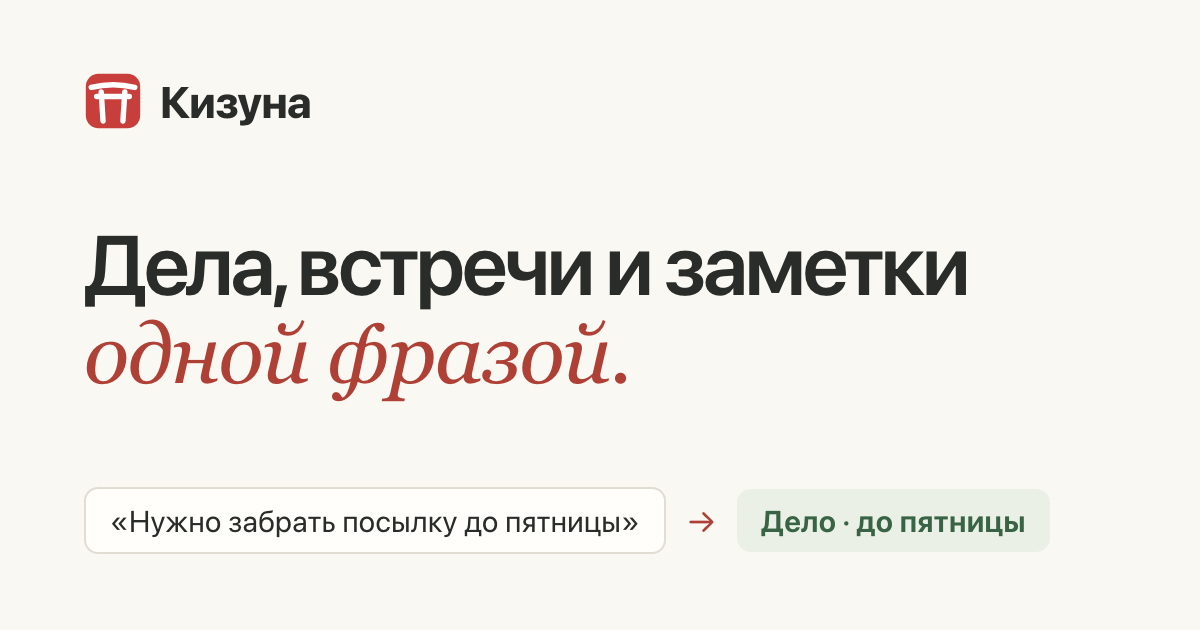
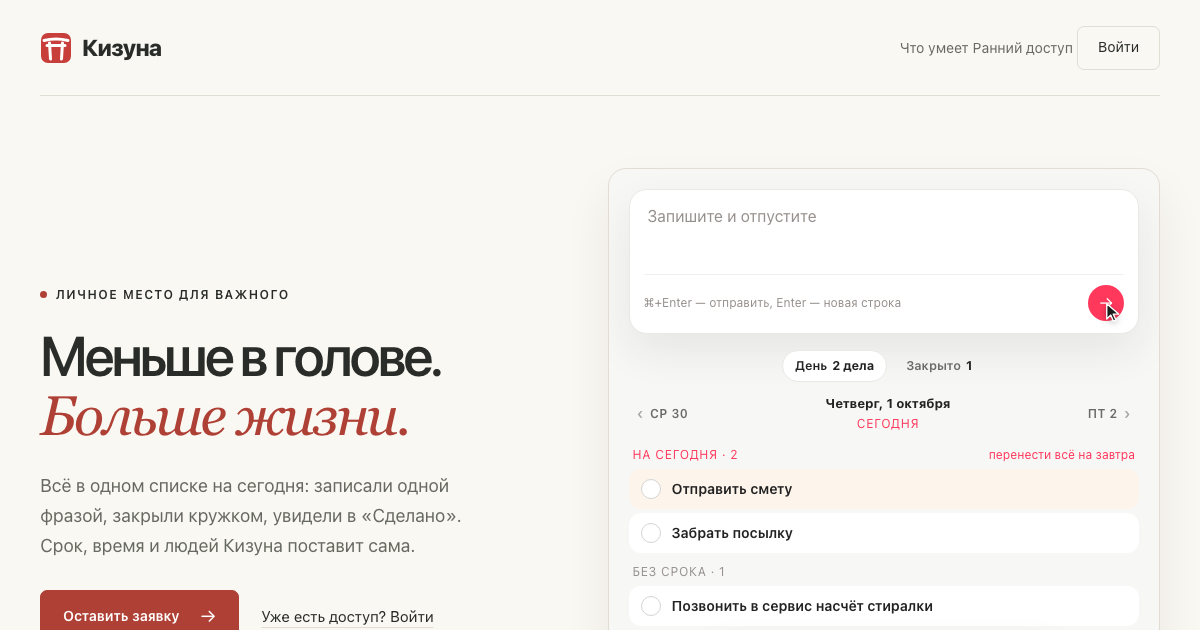
Гостевая главная под «только туду» и док: подзаголовок без голоса — всё в одном списке на сегодня, записали фразой, закрыли кружком, увидели в «Сделано»; ролик в копии «Сегодня» повторяет настоящую страницу (поле «Запишите и отпустите», вкладки «День · Закрыто», полоса дней, полка «на сегодня» со сс

diff --git a/public/hello.html b/public/hello.html
@@ -4,19 +4,19 @@
     <meta charset="utf-8" />
     <meta name="viewport" content="width=device-width,initial-scale=1" />
     <title>Кизуна — меньше в голове, больше жизни</title>
-    <meta name="description" content="Дела, встречи и заметки в одном поле. Напишите или скажите одной фразой, и Кизуна сама поставит срок, время и людей. Ранний доступ." />
+    <meta name="description" content="Всё в одном списке на сегодня: записали одной фразой, закрыли кружком, увидели в «Сделано». Кизуна сама поставит срок, время и людей. Ранний доступ." />
     <!-- Превью ссылки в мессенджерах: новые люди приходят по ссылке от знакомых.
          Страница статическая, поэтому адрес картинки записан целиком. -->
     <meta property="og:type" content="website" />
     <meta property="og:site_name" content="Кизуна" />
     <meta property="og:locale" content="ru_RU" />
     <meta property="og:url" content="https://kizuna.agent-hub.space/" />
-    <meta property="og:title" content="Дела, встречи и заметки одной фразой" />
-    <meta property="og:description" content="Напишите или скажите как думаете. Кизуна сама поставит срок, время и людей. Ранний доступ." />
+    <meta property="og:title" content="Одна фраза — и дело поставлено" />
+    <meta property="og:description" content="Напишите как думаете. Кизуна сама поставит срок, время и людей, а закрытое попадёт в «Сделано». Ранний доступ." />
     <meta property="og:image" content="https://kizuna.agent-hub.space/public/og.png" />
     <meta property="og:image:width" content="1200" />
     <meta property="og:image:height" content="630" />
-    <meta property="og:image:alt" content="Кизуна: фраза «Нужно забрать посылку до пятницы» становится делом со сроком в пятницу" />
+    <meta property="og:image:alt" content="Кизуна: фраза «Завтра в 11 созвон с Аней, а смету отправить сегодня» становится встречей на завтра и делом на сегодня" />
     <meta name="twitter:card" content="summary_large_image" />
     <!-- Ранний доступ: индексацию открываем отдельно от обновления страницы. -->
     <meta name="robots" content="noindex" />
@@ -49,7 +49,7 @@
         <div class="hello-intro">
           <p class="hello-eyebrow"><span class="hello-status-dot" aria-hidden="true"></span>Личное место для важного</p>
           <h1 id="hello-title" class="hello-title">Меньше в голове.<br /><em>Больше жизни.</em></h1>
-          <p class="hello-lead">Дела, встречи и заметки в одном поле. Напишите или скажите одной фразой, и Кизуна сама поставит срок, время и людей.</p>
+          <p class="hello-lead">Всё в одном списке на сегодня: записали одной фразой, закрыли кружком, увидели в «Сделано». Срок, время и людей Кизуна поставит сама.</p>
           <div class="hello-actions">
             <a class="hello-primary" href="/login?join">Оставить заявку <span aria-hidden="true">→</span></a>
             <a class="hello-text-link" href="/login">Уже есть доступ? Войти</a>
@@ -62,28 +62,23 @@
              видна неподвижная копия. -->
         <figure class="hello-demo" id="demo" aria-labelledby="demo-caption">
           <div class="hello-app" id="demo-app" aria-hidden="true">
-            <p class="hello-app-date"><span id="demo-date">Сегодня</span> · <span class="hello-app-phase">день</span></p>
-            <p class="hello-app-brief">Встреч сегодня нет. На сегодня — забрать посылку.</p>
             <div class="hello-app-capture">
-              <div class="hello-app-text is-empty">Запишите мысль, план, встречу или итог дня</div>
+              <div class="hello-app-text is-empty">Запишите и отпустите</div>
               <div class="hello-app-foot">
-                <span class="hello-app-types"><span class="hello-app-type is-on" data-type="auto"><i></i><span>Авто</span></span><span class="hello-app-type" data-type="todo"><i></i></span><span class="hello-app-type" data-type="outcome"><i></i></span><span class="hello-app-type" data-type="note"><i></i></span></span>
-                <span class="hello-app-sep"></span>
-                <span class="hello-app-tags">#тег…</span>
-                <span class="hello-app-voice"><svg viewBox="0 0 24 24" fill="none" stroke="currentColor" stroke-width="2.2" stroke-linecap="round" focusable="false"><path d="M3 9.5v5" /><path d="M7.5 7v10" /><path d="M12 4v16" /><path d="M16.5 7v10" /><path d="M21 9.5v5" /></svg></span>
+                <span class="hello-app-hint">⌘+Enter — отправить, Enter — новая строка</span>
+                <span class="hello-app-send">→</span>
               </div>
             </div>
             <div class="hello-app-tabs">
-              <span class="hello-app-tab" data-tab="journal">Сделано <b>1</b></span>
               <span class="hello-app-tab is-on" data-tab="day">День <b>1 дело</b></span>
-              <span class="hello-app-tab" data-tab="notes">Заметки <b>2</b></span>
+              <span class="hello-app-tab" data-tab="journal">Закрыто <b>1</b></span>
             </div>
             <div class="hello-app-nav">
               <span class="hello-app-step" data-step="-1"><i>‹</i> вчера</span>
               <span class="hello-app-current"><b>Сегодня</b><span>сегодня</span></span>
               <span class="hello-app-step" data-step="1">завтра <i>›</i></span>
             </div>
-            <p class="hello-app-shelf is-today">на сегодня · 1</p>
+            <p class="hello-app-shelf is-today">на сегодня · 1<span>перенести всё на завтра</span></p>
             <div class="hello-app-rows">
               <div class="hello-app-row" data-id="parcel"><span class="hello-app-check"></span><span class="hello-app-title">Забрать посылку</span></div>
             </div>
@@ -91,6 +86,7 @@
             <div class="hello-app-rows">
               <div class="hello-app-row" data-id="service"><span class="hello-app-check"></span><span class="hello-app-title">Позвонить в сервис насчёт стиралки</span></div>
             </div>
+            <div class="hello-app-dock"><span class="hello-dock-item" data-k="done"><span class="hello-dock-tile"><svg viewBox="0 0 24 24" focusable="false"><circle cx="12" cy="12" r="9"/><path d="M7.9 12.4l2.9 2.9 5.4-5.8"/></svg></span><b>1</b></span><span class="hello-dock-item is-on" data-k="today"><span class="hello-dock-tile"><svg viewBox="0 0 24 24" focusable="false"><circle cx="12" cy="12" r="3.7"/><path d="M12 3.4v2M12 18.6v2M3.4 12h2M18.6 12h2M5.9 5.9l1.4 1.4M16.7 16.7l1.4 1.4M18.1 5.9l-1.4 1.4M7.3 16.7l-1.4 1.4"/></svg></span><b>1</b></span><span class="hello-dock-item" data-k="board"><span class="hello-dock-tile"><svg viewBox="0 0 24 24" focusable="false"><rect x="3.6" y="4.5" width="4.8" height="15" rx="1.6"/><rect x="9.6" y="4.5" width="4.8" height="9.2" rx="1.6"/><rect x="15.6" y="4.5" width="4.8" height="11.6" rx="1.6"/></svg></span></span><span class="hello-dock-item" data-k="calendar"><span class="hello-dock-tile"><svg viewBox="0 0 24 24" focusable="false"><path class="band" d="M3.5 8a3.5 3.5 0 0 1 3.5-3.5h10A3.5 3.5 0 0 1 20.5 8v2h-17z"/><rect x="3.5" y="4.5" width="17" height="16" rx="3.5"/><path d="M3.5 10h17"/></svg></span></span><span class="hello-dock-item" data-k="notes"><span class="hello-dock-tile"><svg viewBox="0 0 24 24" focusable="false"><path d="M14 3.5H7a2 2 0 0 0-2 2v13a2 2 0 0 0 2 2h10a2 2 0 0 0 2-2V8.5z"/><path d="M14 3.5v3.5a1.5 1.5 0 0 0 1.5 1.5H19M8.6 13h6.8M8.6 16.6h4.4"/></svg></span></span></div>
           </div>
           <div class="hello-demo-bar" aria-hidden="true"><i id="demo-progress"></i></div>
           <figcaption class="hello-demo-foot">
@@ -100,7 +96,7 @@
               <button type="button" id="demo-again">Сначала</button>
             </span>
           </figcaption>
-          <p class="hello-sr">Пример: фраза «Завтра в 11 созвон с Аней, а смету отправить сегодня» становится встречей на завтра в 11:00 и делом на сегодня. Кружок у дела отмечает его готовым, и оно уходит в «Сделано».</p>
+          <p class="hello-sr">Пример: фраза «Завтра в 11 созвон с Аней, а смету отправить сегодня» становится встречей на завтра в 11:00 и делом на сегодня. Кружок у дела закрывает его, и оно уходит во вкладку «Закрыто», а число на «Сделано» в доке растёт.</p>
         </figure>
       </section>
 
@@ -108,9 +104,10 @@
         <h2 id="more-title">Что ещё умеет <em>Кизуна</em></h2>
         <div class="hello-more-grid">
           <article class="hello-more-card">
-            <svg viewBox="0 0 24 24" aria-hidden="true" focusable="false"><path d="M4 10v4M8 7v10M12 4v16M16 7v10M20 10v4" /></svg>
-            <h3>Голосом</h3>
-            <p>Скажите «перенеси созвон с Аней на пятницу», и Кизуна перенесёт. Голосом работает всё, что есть в приложении.</p>
+            <svg viewBox="0 0 24 24" aria-hidden="true" focusable="false"><circle cx="12" cy="12" r="9" /><path d="M7.9 12.4l2.9 2.9 5.4-5.8" /></svg>
+            <h3>«Сделано» за неделю</h3>
+            <p>Закрытое не пропадает: «За неделю сделано 12, из них встреч 3 · сегодня 3», клетки дней и список по дням.</p>
+            <div class="hello-week-cells" aria-hidden="true"><i data-d="пн" style="--l:2"></i><i data-d="вт" style="--l:3"></i><i data-d="ср" style="--l:1"></i><i data-d="чт" style="--l:0"></i><i data-d="пт" style="--l:3"></i><i data-d="сб" style="--l:1"></i><i data-d="вс" style="--l:2"></i></div>
           </article>
           <article class="hello-more-card">
             <svg viewBox="0 0 24 24" aria-hidden="true" focusable="false"><circle cx="9" cy="8" r="3.2" /><path d="M3.5 19c.8-3.2 3-5 5.5-5s4.7 1.8 5.5 5" /><path d="M15.5 9h6M18.5 6l3 3-3 3" /></svg>
@@ -120,12 +117,12 @@
           <article class="hello-more-card">
             <svg viewBox="0 0 24 24" aria-hidden="true" focusable="false"><path d="M21 4 3 11l6 2.2L11 20l3.2-4.4L19 19z" /><path d="M9 13.2 21 4" /></svg>
             <h3>Из Telegram</h3>
-            <p>Пишите боту или пересылайте ему сообщения. Запись разберётся так же, как в приложении.</p>
+            <p>Пишите боту или пересылайте ему сообщения подряд: бот дождётся паузы и оформит их делами одним ответом.</p>
           </article>
           <article class="hello-more-card">
             <svg viewBox="0 0 24 24" aria-hidden="true" focusable="false"><rect x="3.5" y="5" width="17" height="15" rx="2.5" /><path d="M3.5 10h17M8 3v4M16 3v4" /></svg>
             <h3>С вашим календарём</h3>
-            <p>Встречи из Google Календаря стоят в том же дне, что и дела.</p>
+            <p>Встречи из Google Календаря стоят в том же дне, что и дела. Прошедшая встреча закрывается сама и уходит в «Сделано».</p>
           </article>
         </div>
       </section>
@@ -148,14 +145,14 @@
           <article class="hello-day-card is-afternoon">
             <div class="hello-day-time"><span>02 / ДЕНЬ</span><svg viewBox="0 0 40 40" aria-hidden="true" focusable="false"><circle cx="20" cy="20" r="7" /><path d="M20 3v5M20 32v5M3 20h5M32 20h5M8 8l4 4M28 28l4 4M8 32l4-4M28 12l4-4" /></svg></div>
             <h3>Поймать мысль и идти дальше</h3>
-            <p>Не нужно решать, куда записать. Идеи, планы и итоги начинаются с одного поля.</p>
+            <p>Не нужно решать, куда записать: одна фраза — одно дело на сегодня. Мысли, которые не дело, живут в «Заметках».</p>
             <div class="hello-mini-note"><span>ЗАМЕТКА СЕБЕ</span><p>А что, если на выходных <br />уехать к морю?</p><span class="hello-mini-note-label">Идея сохранена <span aria-hidden="true">↗</span></span></div>
           </article>
           <article class="hello-day-card is-evening">
             <div class="hello-day-time"><span>03 / ВЕЧЕР</span><svg viewBox="0 0 40 40" aria-hidden="true" focusable="false"><path d="M30 27A14 14 0 0 1 13 7a14 14 0 1 0 17 20Z" /><path d="M28 5v8M24 9h8" /></svg></div>
             <h3>Увидеть, что день был не зря</h3>
-            <p>Закрытые дела и записанные итоги уже собраны. Легче вспомнить, на что ушёл день.</p>
-            <div class="hello-mini-done" aria-label="Пример итогов дня"><span>СЕГОДНЯ ПОЛУЧИЛОСЬ</span><p><span aria-hidden="true">✓</span> Обсудить новый проект</p><p><span aria-hidden="true">✓</span> Забрать посылку</p><small>Можно выдохнуть.</small></div>
+            <p>Раздел «Сделано» уже собрал закрытые дела и прошедшие встречи: неделя в цифрах и ритм по дням. Легче вспомнить, на что ушёл день.</p>
+            <div class="hello-mini-done hello-mini-week" aria-label="Пример раздела «Сделано»"><span>СДЕЛАНО</span><p>За неделю сделано <b>12</b> · сегодня <b>3</b></p><div class="hello-week-cells" aria-hidden="true"><i data-d="пн" style="--l:2"></i><i data-d="вт" style="--l:3"></i><i data-d="ср" style="--l:1"></i><i data-d="чт" style="--l:2"></i><i data-d="пт" style="--l:3"></i><i data-d="сб" style="--l:0"></i><i data-d="вс" style="--l:1"></i></div></div>
           </article>
         </div>
       </section>
@@ -180,7 +177,7 @@
         <div class="hello-faq-list">
           <details><summary>Можно сразу начать пользоваться?<span aria-hidden="true">+</span></summary><p>Кизуна сейчас в раннем доступе. Оставьте заявку — её проверит человек. Войти получится после одобрения. Автоматического письма о готовности пока нет.</p></details>
           <details><summary>Кто видит мои записи?<span aria-hidden="true">+</span></summary><p>Личный журнал привязан к вашей учётной записи. Другие пользователи его не видят. Они видят только то, чем вы поделились: дело, отданное человеку, запись с проектом общего круга и запись, куда вы позвали человека через @.</p></details>
-          <details><summary>Как Кизуна понимает, что я написал?<span aria-hidden="true">+</span></summary><p>Текст отправляется во внешний сервис языковой модели. Она определяет тип записи и находит детали: например, срок или участника встречи. Разбор может ошибиться — его можно поправить.</p></details>
+          <details><summary>Как Кизуна понимает, что я написал?<span aria-hidden="true">+</span></summary><p>Текст отправляется во внешний сервис языковой модели. Она находит в фразе детали: срок, время, участника встречи или человека, которому отдано дело. Разбор может ошибиться — его можно поправить.</p></details>
           <details><summary>А если я захочу забрать записи?<span aria-hidden="true">+</span></summary><p>В настройках есть экспорт журнала файлом и очистка своих данных. Исходные фразы сохраняются вместе с историей изменений.</p></details>
         </div>
       </section>

diff --git a/public/hello.css b/public/hello.css
@@ -176,30 +176,15 @@
   background: var(--n-98-4);
   box-shadow: 0 24px 48px var(--orange-21-a7);
 }
-.hello-app { position: relative; padding: 20px 20px 60px; color: var(--ink); font-size: 14px; line-height: 1.45; }
-.hello-app-date { margin: 0 0 6px; color: var(--muted); font-size: 12px; font-weight: 700; letter-spacing: 0.08em; text-align: center; text-transform: uppercase; }
-.hello-app-phase { color: var(--blue-54); }
-.hello-app-brief { margin: 0 0 14px; color: var(--muted); font-size: 14px; text-align: center; }
+.hello-app { position: relative; padding: 20px 20px 118px; color: var(--ink); font-size: 14px; line-height: 1.45; }
 .hello-app-capture { padding: 12px 14px; border: 1px solid var(--line); border-radius: 18px; background: var(--paper); box-shadow: 0 18px 42px var(--n-25-a8); }
 .hello-app-text { min-height: 64px; padding: 2px 4px; border-radius: 8px; font-size: 16px; line-height: 1.5; overflow-wrap: anywhere; transition: transform 120ms; }
 .hello-app-text.is-empty { color: var(--n-66); }
 .hello-app-caret { display: inline-block; width: 1.5px; height: 1.1em; margin-left: 1px; vertical-align: -0.2em; background: var(--ink); animation: hello-blink 1s steps(1) infinite; }
 @keyframes hello-blink { 50% { opacity: 0; } }
 .hello-app-foot { display: flex; align-items: center; gap: 7px; min-width: 0; margin-top: 8px; padding-top: 10px; border-top: 1px solid var(--hairline); color: var(--n-66); font-size: 12px; }
-.hello-app-types { display: flex; flex: none; gap: 2px; }
-.hello-app-type { display: inline-flex; align-items: center; gap: 6px; height: 26px; padding: 0 8px; border-radius: 99px; color: var(--type); font-size: 12px; font-weight: 700; }
-.hello-app-type i { width: 10px; height: 10px; flex: none; border-radius: 50%; background: var(--type); }
-.hello-app-type.is-on { background: var(--tint); }
-.hello-app-type[data-type="auto"] { --type: var(--type-auto); --tint: var(--tint-auto); }
-.hello-app-type[data-type="todo"] { --type: var(--type-todo); --tint: var(--tint-todo); }
-.hello-app-type[data-type="outcome"] { --type: var(--type-outcome); --tint: var(--tint-outcome); }
-.hello-app-type[data-type="note"] { --type: var(--type-note); --tint: var(--tint-note); }
-.hello-app-sep { width: 1px; height: 18px; flex: none; background: var(--hairline); }
-.hello-app-tags { flex: 1; min-width: 0; overflow: hidden; white-space: nowrap; text-overflow: ellipsis; }
-.hello-app-voice, .hello-app-send { display: grid; place-items: center; flex: none; width: 36px; height: 36px; border-radius: 50%; transition: transform 120ms; }
-.hello-app-voice { background: var(--coral); color: #fff; }
-.hello-app-voice svg { width: 19px; height: 19px; }
-.hello-app-send { border: 1px solid var(--line); background: var(--paper); color: var(--ink); font-size: 17px; }
+.hello-app-hint { flex: 1; min-width: 0; overflow: hidden; white-space: nowrap; text-overflow: ellipsis; }
+.hello-app-send { display: grid; place-items: center; flex: none; width: 36px; height: 36px; border-radius: 50%; background: var(--coral); color: #fff; font-size: 17px; transition: transform 120ms; }
 .hello-app-tabs { display: flex; flex-wrap: wrap; justify-content: center; gap: 6px; margin: 16px 0 12px; }
 .hello-app-tab { display: inline-flex; align-items: center; gap: 5px; padding: 6px 12px; border: 1px solid transparent; border-radius: 99px; color: var(--n-52); font-size: 12.5px; font-weight: 600; transition: transform 120ms; }
 .hello-app-tab b { color: var(--ink); font-weight: 700; }
@@ -209,8 +194,9 @@
 .hello-app-step i { color: var(--n-72); font-size: 16px; font-style: normal; line-height: 1; }
 .hello-app-current { display: flex; flex-direction: column; align-items: center; gap: 2px; min-width: 0; font-size: 13px; text-align: center; }
 .hello-app-current span { color: var(--coral); font-size: 12px; letter-spacing: 0.06em; text-transform: uppercase; }
-.hello-app-shelf { margin: 0; padding: 10px 4px 5px; color: var(--n-66); font-size: 12px; letter-spacing: 0.06em; text-transform: uppercase; }
+.hello-app-shelf { display: flex; justify-content: space-between; gap: 8px; margin: 0; padding: 10px 4px 5px; color: var(--n-66); font-size: 12px; letter-spacing: 0.06em; text-transform: uppercase; }
 .hello-app-shelf.is-today { color: var(--coral); }
+.hello-app-shelf span { text-transform: none; letter-spacing: 0; }
 .hello-app-rows { display: grid; gap: 4px; }
 .hello-app-row { display: flex; align-items: center; gap: 11px; min-width: 0; padding: 10px 12px; border-radius: 12px; background: var(--paper); transition: background-color 600ms; }
 .hello-app-row.is-fresh { background: var(--orange-97); }
@@ -221,8 +207,29 @@
 .hello-app-row.is-done .hello-app-title { color: var(--muted); text-decoration: line-through; }
 .hello-app-time { flex: none; color: var(--muted); font-size: 12px; font-weight: 700; font-variant-numeric: tabular-nums; }
 .hello-app-chip { display: inline-block; padding: 0 8px; border-radius: 99px; background: var(--tint-todo); color: var(--type-todo); font-size: 12px; font-weight: 600; line-height: 1.6; }
-.hello-app-toast { position: absolute; bottom: 14px; left: 50%; max-width: calc(100% - 28px); width: max-content; margin: 0; padding: 7px 14px; border-radius: 16px; background: var(--ink); color: var(--paper); font-size: 13px; line-height: 1.4; text-align: center; transform: translateX(-50%); box-shadow: 0 18px 42px var(--n-25-a8); animation: hello-rise 240ms ease-out; }
+.hello-app-toast { position: absolute; bottom: 78px; z-index: 2; left: 50%; max-width: calc(100% - 28px); width: max-content; margin: 0; padding: 7px 14px; border-radius: 16px; background: var(--ink); color: var(--paper); font-size: 13px; line-height: 1.4; text-align: center; transform: translateX(-50%); box-shadow: 0 18px 42px var(--n-25-a8); animation: hello-rise 240ms ease-out; }
 @keyframes hello-rise { from { opacity: 0; transform: translate(-50%, 6px); } to { opacity: 1; transform: translateX(-50%); } }
+/* Док внизу копии: те же плитки, цвета и значки, что в приложении, в меньшем масштабе. */
+.hello-app-dock { position: absolute; left: 50%; bottom: 12px; display: flex; gap: 6px; padding: 5px 7px 9px; border: 1px solid var(--dockline); border-radius: 16px; background: var(--dockbg); box-shadow: 0 8px 22px rgba(0, 0, 0, 0.12); transform: translateX(-50%); }
+.hello-dock-item { position: relative; width: 32px; height: 32px; flex: none; }
+.hello-dock-tile { position: absolute; inset: 0; display: grid; place-items: center; border-radius: 8px; background: var(--b); color: var(--f); box-shadow: inset 0 0 0 1px rgba(0, 0, 0, 0.05); }
+.hello-dock-tile svg { width: 16px; height: 16px; fill: none; stroke: currentColor; stroke-width: 1.7; stroke-linecap: round; stroke-linejoin: round; }
+.hello-dock-tile svg .band { fill: var(--dock-cal-band); stroke: none; }
+.hello-dock-item.is-on .hello-dock-tile { filter: saturate(1.3) brightness(1.04); }
+.hello-dock-item.is-on::after { content: ""; position: absolute; left: 50%; bottom: -6px; width: 3px; height: 3px; margin-left: -1.5px; border-radius: 50%; background: var(--ink); }
+.hello-dock-item b { position: absolute; top: -5px; right: -5px; min-width: 16px; height: 16px; padding: 0 4px; border-radius: 99px; background: var(--dock-badge); color: #fff; font-size: 12px; line-height: 16px; text-align: center; }
+.hello-dock-item b[hidden] { display: none; }
+.hello-dock-item[data-k="done"] { --b: var(--dock-done-b); --f: var(--dock-done-f); }
+.hello-dock-item[data-k="today"] { --b: var(--dock-today-b); --f: var(--dock-today-f); }
+.hello-dock-item[data-k="board"] { --b: var(--dock-board-b); --f: var(--dock-board-f); }
+.hello-dock-item[data-k="calendar"] { --b: var(--dock-calendar-b); --f: var(--dock-calendar-f); }
+.hello-dock-item[data-k="notes"] { --b: var(--dock-notes-b); --f: var(--dock-notes-f); }
+.hello-week-cells { display: flex; gap: 6px; margin-top: 10px; }
+.hello-week-cells i { position: relative; flex: 1; max-width: 34px; height: 28px; border-radius: 6px; background: color-mix(in srgb, var(--hello-success) calc(var(--l) * 28% + 8%), var(--hello-canvas)); }
+.hello-week-cells i::after { content: attr(data-d); position: absolute; top: 100%; left: 0; right: 0; padding-top: 3px; color: var(--hello-muted); font-size: 12px; font-style: normal; text-align: center; }
+.hello-more-card .hello-week-cells { margin-bottom: 16px; }
+.hello-mini-week > p { margin: 12px 0 4px; }
+.hello-mini-week .hello-week-cells { margin-bottom: 22px; }
 .hello-app .is-pressed { transform: scale(0.94); }
 .hello-cursor { position: absolute; top: 0; left: 0; z-index: 3; width: 22px; height: 22px; pointer-events: none; filter: drop-shadow(0 2px 3px rgba(0, 0, 0, 0.25)); transition: transform 700ms cubic-bezier(0.3, 0.7, 0.2, 1); }
 .hello-cursor svg { display: block; width: 100%; height: 100%; }
@@ -360,7 +367,6 @@
   .hello-demo { border-radius: 14px; }
   .hello-app { padding: 16px 12px 58px; }
   .hello-app-tags { display: none; }
-  .hello-app-type { padding: 0 6px; }
   .hello-app-step { padding-inline: 4px; }
   .hello-more { padding: 44px 0 48px; }
   .hello-more-grid { grid-template-columns: 1fr; gap: 12px; }

diff --git a/public/hello.js b/public/hello.js
@@ -1,7 +1,7 @@
 // Гостевая главная: ролик «как это работает» в копии «Сегодня». Он идёт сам,
 // как видео: фраза печатается, запись раскладывается на встречу завтра и дело
-// на сегодня, дело закрывается кружком и уходит в «Сделано». Всё происходит
-// в копии: ни сети, ни личных данных.
+// на сегодня, дело закрывается кружком и уходит во вкладку «Закрыто», а число
+// на «Сделано» в доке растёт. Всё происходит в копии: ни сети, ни личных данных.
 //
 // Копия устроена по правилам настоящего «Дня»: дело со сроком сегодня лежит на
 // полке «на сегодня», встреча завтра — в «по часам» завтрашнего дня, закрытое
@@ -12,10 +12,15 @@
 import { longDate, shortDate, plural, DEALS, MEETINGS } from "./today-cover.js";
 
 const PHRASE = "Завтра в 11 созвон с Аней, а смету отправить сегодня";
-const PLACEHOLDER = "Запишите мысль, план, встречу или итог дня";
+const PLACEHOLDER = "Запишите и отпустите";
+const DOCK = [
+  ["done", '<circle cx="12" cy="12" r="9"/><path d="M7.9 12.4l2.9 2.9 5.4-5.8"/>'],
+  ["today", '<circle cx="12" cy="12" r="3.7"/><path d="M12 3.4v2M12 18.6v2M3.4 12h2M18.6 12h2M5.9 5.9l1.4 1.4M16.7 16.7l1.4 1.4M18.1 5.9l-1.4 1.4M7.3 16.7l-1.4 1.4"/>'],
+  ["board", '<rect x="3.6" y="4.5" width="4.8" height="15" rx="1.6"/><rect x="9.6" y="4.5" width="4.8" height="9.2" rx="1.6"/><rect x="15.6" y="4.5" width="4.8" height="11.6" rx="1.6"/>'],
+  ["calendar", '<path class="band" d="M3.5 8a3.5 3.5 0 0 1 3.5-3.5h10A3.5 3.5 0 0 1 20.5 8v2h-17z"/><rect x="3.5" y="4.5" width="17" height="16" rx="3.5"/><path d="M3.5 10h17"/>'],
+  ["notes", '<path d="M14 3.5H7a2 2 0 0 0-2 2v13a2 2 0 0 0 2 2h10a2 2 0 0 0 2-2V8.5z"/><path d="M14 3.5v3.5a1.5 1.5 0 0 0 1.5 1.5H19M8.6 13h6.8M8.6 16.6h4.4"/>'],
+];
 const CURSOR = '<svg viewBox="0 0 24 24" aria-hidden="true" focusable="false"><path d="M3 2v16.5l4.4-4.2 2.9 6.6 2.7-1.2-2.9-6.5H16z" fill="#1b1b1b" stroke="#fff" stroke-width="1.5" stroke-linejoin="round"/></svg>';
-const WAVE = '<svg viewBox="0 0 24 24" fill="none" stroke="currentColor" stroke-width="2.2" stroke-linecap="round" focusable="false"><path d="M3 9.5v5"/><path d="M7.5 7v10"/><path d="M12 4v16"/><path d="M16.5 7v10"/><path d="M21 9.5v5"/></svg>';
-const TYPES = [["auto", "Авто"], ["todo"], ["outcome"], ["note"]];
 
 const h = (tag, cls, ...kids) => {
   const el = document.createElement(tag);
@@ -69,23 +74,14 @@ function row(item, { done = false } = {}) {
 }
 function shelf(label, items, options) {
   if (!items.length) return [];
-  return [h("p", `hello-app-shelf${options?.today ? " is-today" : ""}`, label), h("div", "hello-app-rows", ...items.map((item) => row(item, options)))];
+  return [h("p", `hello-app-shelf${options?.today ? " is-today" : ""}`, label, options?.aside ? h("span", null, options.aside) : null), h("div", "hello-app-rows", ...items.map((item) => row(item, options)))];
 }
 function paint() {
   const s = state;
-  const today = isoDay(), shown = isoDay(s.view);
+  const shown = isoDay(s.view);
   const text = h("div", `hello-app-text${s.text ? "" : " is-empty"}`, s.text || PLACEHOLDER);
   if (s.typing) text.append(h("i", "hello-app-caret"));
-  const types = h("span", "hello-app-types");
-  for (const [key, label] of TYPES) {
-    const type = h("span", `hello-app-type${label ? " is-on" : ""}`, h("i"), label ? h("span", null, label) : null);
-    type.dataset.type = key;
-    types.append(type);
-  }
-  const voice = h("span", "hello-app-voice");
-  voice.innerHTML = WAVE;
   const send = h("span", "hello-app-send", "→");
-  send.hidden = !s.text;
   const tab = (key, label, count) => {
     const el = h("span", `hello-app-tab${s.tab === key ? " is-on" : ""}`, label, " ", h("b", null, count));
     el.dataset.tab = key;
@@ -102,17 +98,26 @@ function paint() {
   };
   const current = h("span", "hello-app-current", h("b", null, longDate(shown)), h("span", null, s.view ? "завтра" : "сегодня"));
   let list;
-  if (s.tab === "journal") list = shelf("сделано сегодня", s.done, { done: true });
+  if (s.tab === "journal") list = shelf("закрыто сегодня", s.done, { done: true });
   else if (s.view) list = shelf("по часам", s.tomorrow);
-  else list = [...shelf(`на сегодня · ${s.today.length}`, s.today, { today: true }), ...shelf(`без срока · ${s.stock.length}`, s.stock)];
-  const first = s.today.find((item) => item.id !== s.closing);
+  else list = [...shelf(`на сегодня · ${s.today.length}`, s.today, { today: true, aside: "перенести всё на завтра" }), ...shelf(`без срока · ${s.stock.length}`, s.stock)];
+  const dock = h("div", "hello-app-dock");
+  const badges = { done: s.done.length, today: s.today.length };
+  for (const [key, icon] of DOCK) {
+    const item = h("span", `hello-dock-item${key === "today" ? " is-on" : ""}`);
+    item.dataset.k = key;
+    const tile = h("span", "hello-dock-tile");
+    tile.innerHTML = `<svg viewBox="0 0 24 24" focusable="false">${icon}</svg>`;
+    item.append(tile);
+    if (badges[key]) item.append(h("b", null, String(badges[key])));
+    dock.append(item);
+  }
   const parts = [
-    h("p", "hello-app-date", `${longDate(today)} · `, h("span", "hello-app-phase", "день")),
-    h("p", "hello-app-brief", first ? `Встреч сегодня нет. На сегодня — ${first.title.toLowerCase()}.` : "Встреч сегодня нет. Дела на сегодня закрыты."),
-    h("div", "hello-app-capture", text, h("div", "hello-app-foot", types, h("span", "hello-app-sep"), h("span", "hello-app-tags", "#тег…"), voice, send)),
-    h("div", "hello-app-tabs", tab("journal", "Сделано", String(s.done.length)), tab("day", s.view ? `День ${shortDate(shown)}` : "День", dayCount), tab("notes", "Заметки", "2")),
+    h("div", "hello-app-capture", text, h("div", "hello-app-foot", h("span", "hello-app-hint", "⌘+Enter — отправить, Enter — новая строка"), send)),
+    h("div", "hello-app-tabs", tab("day", s.view ? `День ${shortDate(shown)}` : "День", dayCount), tab("journal", "Закрыто", String(s.done.length))),
     h("div", "hello-app-nav", step(-1), current, step(1)),
     ...list,
+    dock,
   ];
   if (s.toast) parts.push(h("p", "hello-app-toast", s.toast));
   app.replaceChildren(...parts);
@@ -246,7 +251,7 @@ async function play(token) {
     state.today = state.today.filter((item) => item.id !== "parcel");
     state.done = [parcel, ...state.done];
     state.closing = null;
-    state.toast = "Отмечено как готовое";
+    state.toast = "Дело закрыто — оно в «Закрыто»";
     paint();
     progress(0.82);
     await wait(2200, token);

diff --git a/tests/hello.spec.js b/tests/hello.spec.js
@@ -1,6 +1,6 @@
 // Гостевая главная глазами человека, который пришёл по ссылке: ролик в копии
 // «Сегодня» идёт сам — фраза печатается, встреча встаёт на завтра, дело — на
-// сегодня, кружок закрывает дело, и оно уходит в «Сделано». Часы страницы
+// сегодня, кружок закрывает дело, и оно уходит в «Закрыто», а бейдж «Сделано» в доке растёт. Часы страницы
 // подменены: ролик проматывается, а не смотрится целиком.
 import { test, expect } from "@playwright/test";
 
@@ -18,14 +18,20 @@ test("ролик на главной проходит день по правил
   // Одна фраза — две записи: дело на полке «на сегодня», встреча у завтрашнего дня.
   await playUntil(async () => (await demo.locator('[data-id="smeta"]').count()) === 1);
   await expect(demo).toContainText("Записано: встреча завтра в 11:00 и дело на сегодня");
-  await expect(demo.locator(".hello-app-shelf.is-today")).toHaveText("на сегодня · 2");
+  await expect(demo.locator(".hello-app-shelf.is-today")).toContainText("на сегодня · 2");
+  // Внизу копии — док разделов: у «Сегодня» бейдж с числом дел, у «Сделано» — с числом закрытых.
+  await expect(demo.locator('.hello-dock-item[data-k="today"] b')).toHaveText("2");
+  await expect(demo.locator('.hello-dock-item[data-k="done"] b')).toHaveText("1");
   await playUntil(async () => (await demo.locator('[data-id="meet"]').count()) === 1);
   await expect(demo.locator('[data-id="meet"]')).toContainText("11:00");
   await expect(demo.locator(".hello-app-shelf")).toHaveText(["по часам"]);
 
-  // Кружок закрывает дело: из «Дня» оно уходит, в «Сделано» появляется.
+  // Кружок закрывает дело: из «Дня» оно уходит, во вкладке «Закрыто» появляется.
   await playUntil(async () => (await demo.locator('.hello-app-tab.is-on[data-tab="journal"]').count()) === 1);
   await expect(demo.locator('[data-id="parcel"]')).toHaveClass(/is-done/);
+  await expect(demo.locator('.hello-app-tab[data-tab="journal"]')).toContainText("Закрыто 2");
+  await expect(demo.locator('.hello-dock-item[data-k="done"] b')).toHaveText("2");
+  await expect(page.getByText(/голос/i)).toHaveCount(0);
 
   // Пауза останавливает ролик: кадр не меняется, сколько бы времени ни прошло.
   await page.getByRole("button", { name: "Пауза" }).click();

diff --git a/public/app.html b/public/app.html
@@ -35,7 +35,7 @@
             /><line x1="45" y1="22" x2="43" y2="54" /></g></svg
         ><span class="brand-word">Кизуна</span></a
       >
-      <nav aria-label="Разделы">
+      <nav class="dock" aria-label="Разделы">
         <span class="dock-item" data-k="done"><a href="#done"><svg viewBox="0 0 24 24" aria-hidden="true" focusable="false"><circle cx="12" cy="12" r="9"/><path d="M7.9 12.4l2.9 2.9 5.4-5.8"/></svg><span class="dock-label">Сделано</span></a><b class="dock-badge" id="dock-badge-done" hidden></b></span>
         <span class="dock-item" data-k="today"><a class="active" href="#today"><svg viewBox="0 0 24 24" aria-hidden="true" focusable="false"><circle cx="12" cy="12" r="3.7"/><path d="M12 3.4v2M12 18.6v2M3.4 12h2M18.6 12h2M5.9 5.9l1.4 1.4M16.7 16.7l1.4 1.4M18.1 5.9l-1.4 1.4M7.3 16.7l-1.4 1.4"/></svg><span class="dock-label">Сегодня</span></a><b class="dock-badge" id="dock-badge-today" hidden></b></span>
         <span class="dock-item" data-k="board"><a href="#board"><svg viewBox="0 0 24 24" aria-hidden="true" focusable="false"><rect x="3.6" y="4.5" width="4.8" height="15" rx="1.6"/><rect x="9.6" y="4.5" width="4.8" height="9.2" rx="1.6"/><rect x="15.6" y="4.5" width="4.8" height="11.6" rx="1.6"/></svg><span class="dock-label">Доска</span></a></span>

diff --git a/public/app.css b/public/app.css
@@ -529,7 +529,7 @@ header > .header-tail {
   --dock-calendar-b: #2a2a2a; --dock-calendar-f: #eaeaea; --dock-cal-band: #c7443c;
   --dock-notes-b: #332c14; --dock-notes-f: #d9b84a;
 }
-header > nav {
+header > nav.dock {
   position: fixed;
   left: 50%;
   bottom: 14px;
@@ -691,7 +691,7 @@ header > nav {
   .dock-label { transition: none; }
 }
 @media (max-width: 600px) {
-  header > nav {
+  header > nav.dock {
     left: 6px;
     right: 6px;
     transform: none;
